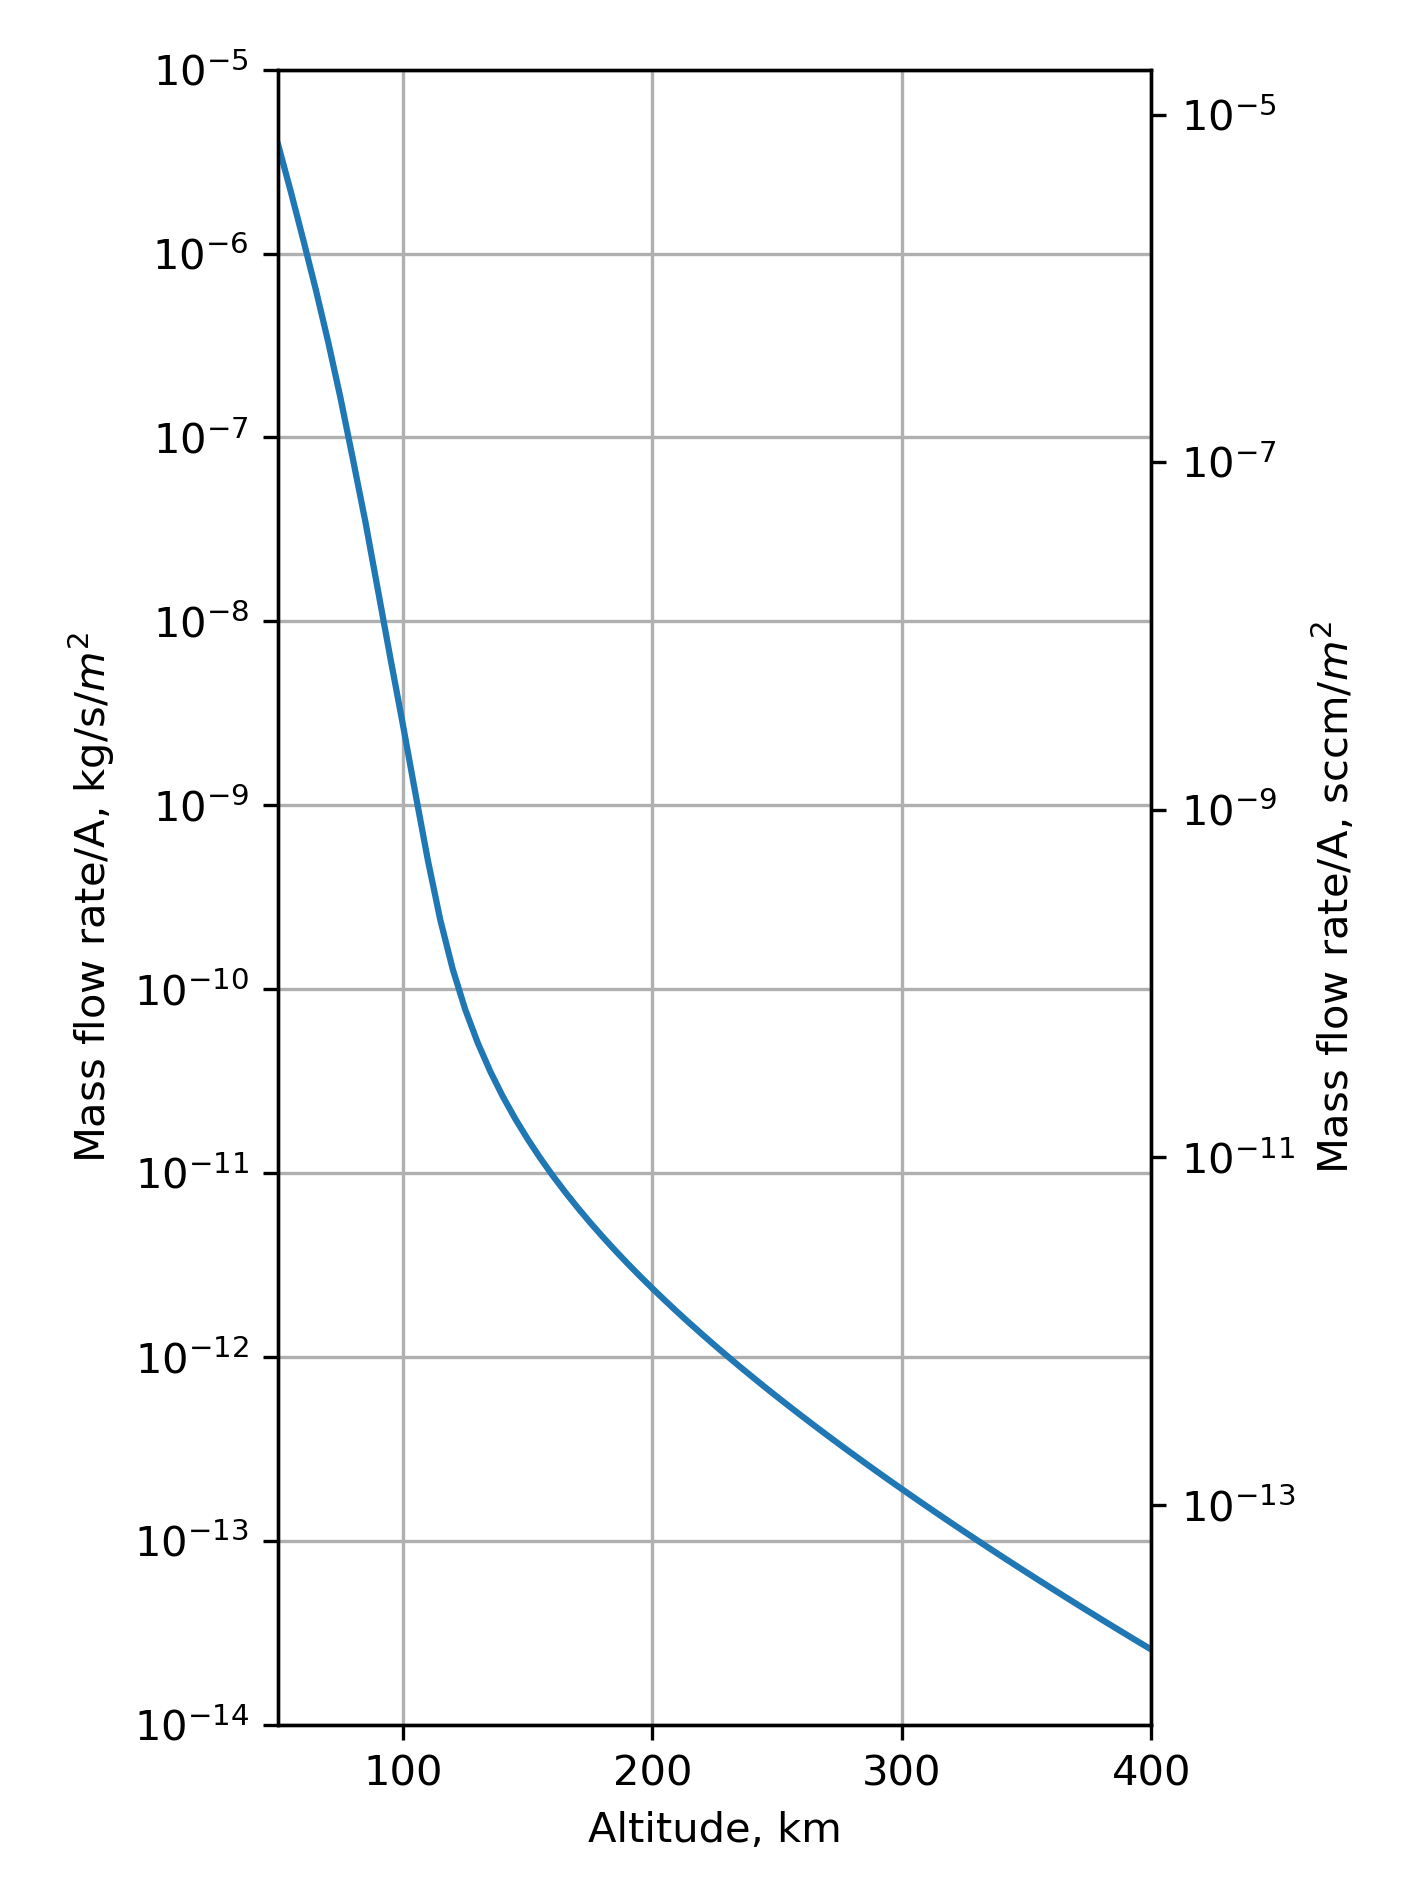
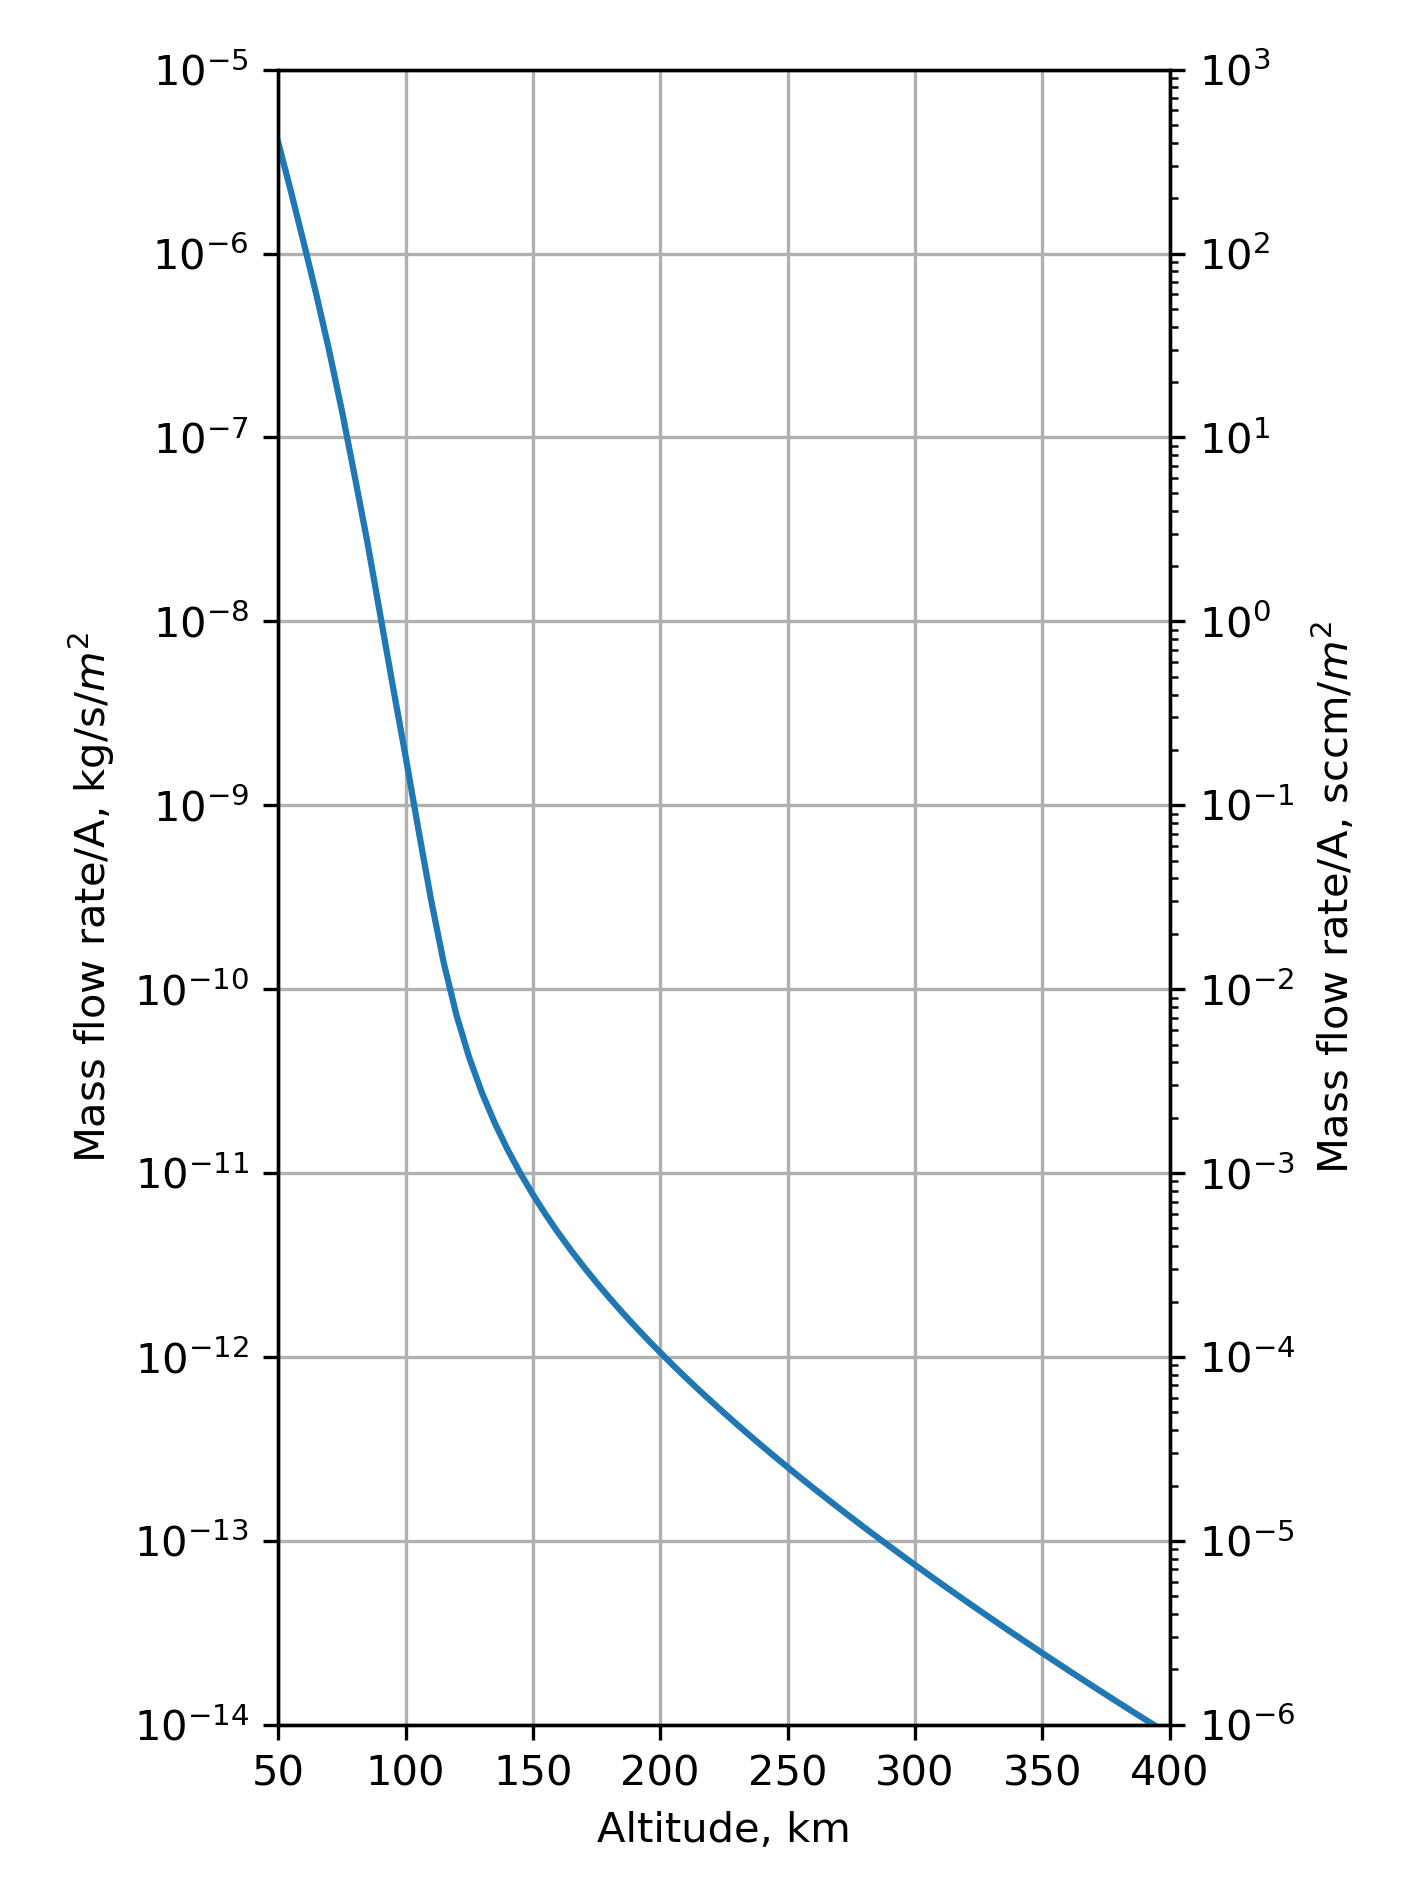
Updated the v_dot

diff --git a/Mass_flow_rate.py b/Mass_flow_rate.py
@@ -43,8 +43,8 @@ A_sc = 1 # cross-sectional area [m^2]
 m_dot = np.zeros(len(h))
 V_dot = np.zeros(len(h))
 for i in range(0,len(h)):
-    m_dot[i] = A_sc*v_sc[i]*n_total[i]*M_ave[i]
-    V_dot[i] = m_dot[i]*R_a*300/(M_ave[i]*N_A)/101325
+    m_dot[i] = A_sc*v_sc[i]*n_total[i]*M_ave[i] # [kg/s]
+    V_dot[i] = m_dot[i]*R_a*300/(M_ave[i]*N_A)/101325*60*1e6 # [sccm]
     
 
 fig, ax = plt.subplots(figsize=(4.75,6.33))
@@ -56,8 +56,7 @@ ax.set_yticks(np.logspace(-14,-5,10))
 ax.set_ylabel('Mass flow rate/A, kg/s/$m^2$')
 ax2 = ax.twinx()
 ax2.semilogy(h,V_dot)
-#ax2.set_ylim(1e-14*8.314*300/M_ave[0]/101325,1e-5*8.314*300/M_ave[0]/101325)
-#ax2.set_yticks(np.logspace(-9,0,10))
+ax2.set_ylim(1e-6,1e3)
 ax2.set_ylabel('Mass flow rate/A, sccm/$m^2$')
 ax.grid()
 fig.tight_layout()
@@ -65,7 +64,7 @@ fig.savefig('Mass flow rate vs Altitude',dpi=300)
 plt.show()
 
 #%%
-x = 20
+x = 1
 print(h[x])
 print(v_sc[x])
 print(T[x])
